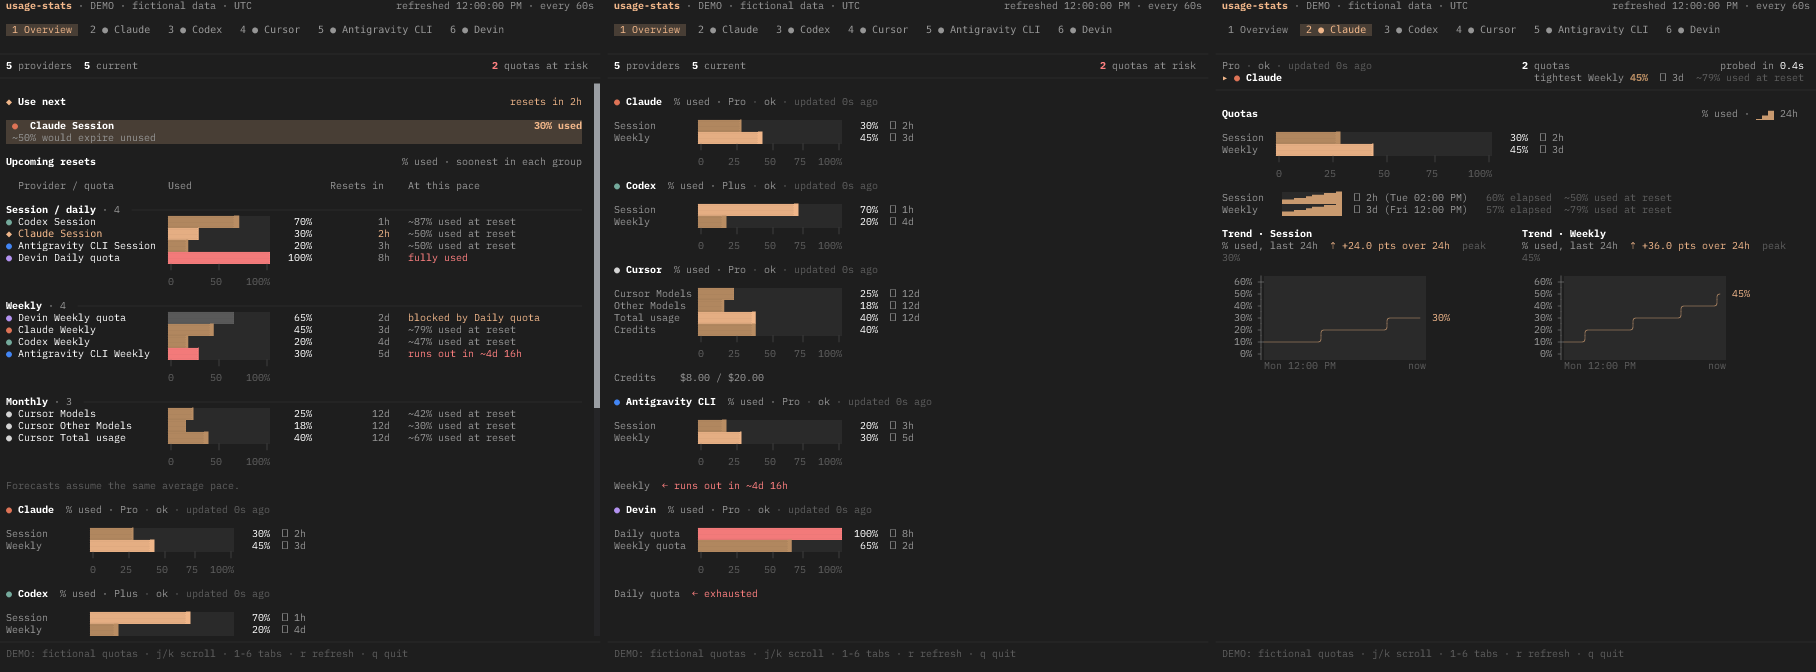
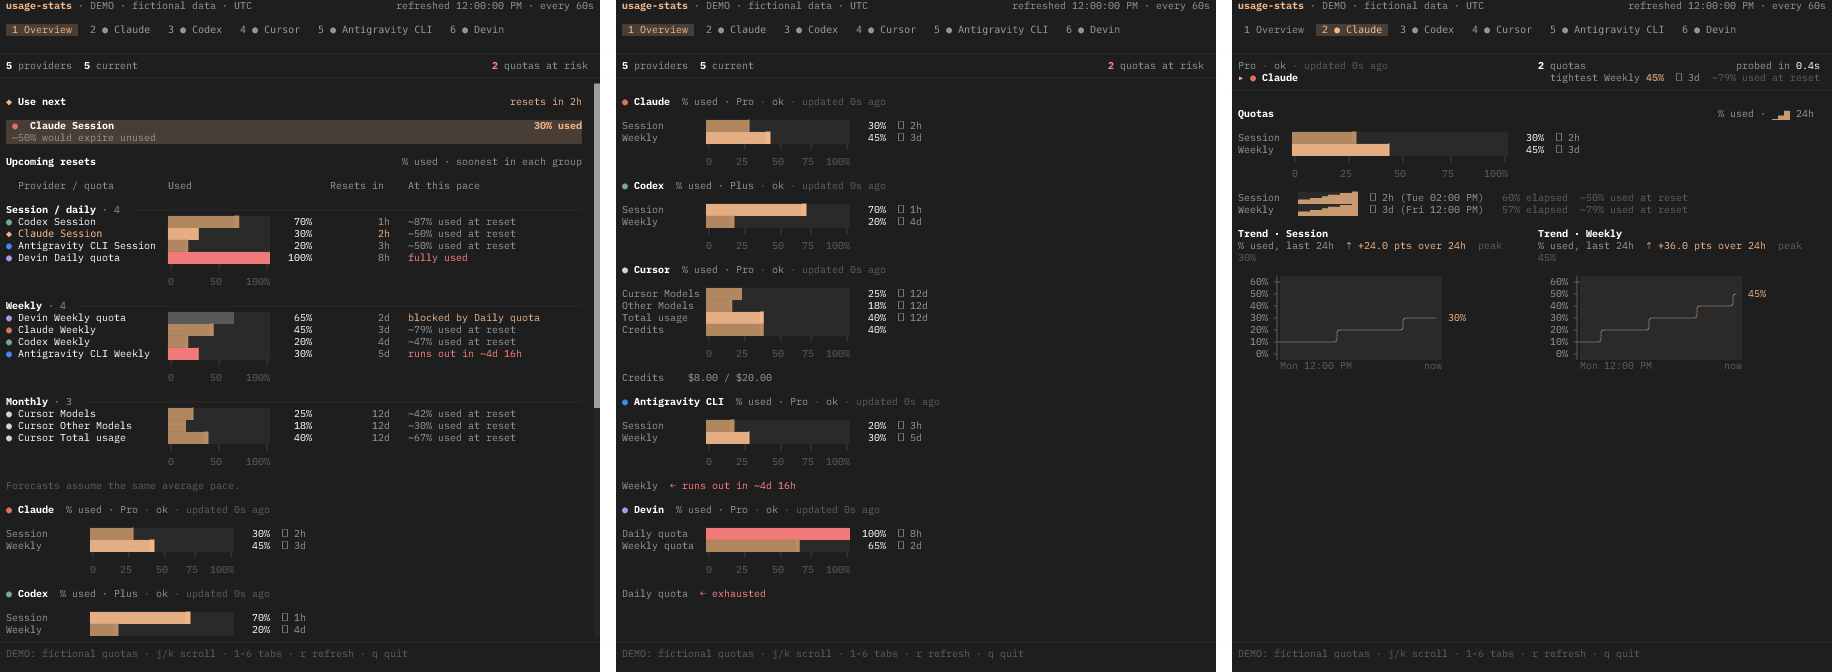
chore(preview): add 16px transparent gap between screens in preview

diff --git a/scripts/build-preview.tsx b/scripts/build-preview.tsx
@@ -46,12 +46,14 @@ const views = [overview, { ...overview, cards: overview.cards.filter((card) => !
   providerView(states[0]!, history, WINDOWS[1]!, options, 43)];
 const cellWidth = 6;
 const cellHeight = 12;
-const gap = 8;
+const gap = 16;
 const escape = (value: string) => value.replaceAll('&', '&amp;').replaceAll('<', '&lt;').replaceAll('>', '&gt;');
 const rgb = (color: { toInts(): number[] }) => `rgb(${color.toInts().slice(0, 3).join(',')})`;
-let svg = `<svg xmlns="http://www.w3.org/2000/svg" width="${3 * width * cellWidth + 2 * gap}" height="${height * cellHeight}"><rect width="100%" height="100%" fill="${theme.bg}"/>`;
+let svg = `<svg xmlns="http://www.w3.org/2000/svg" width="${3 * width * cellWidth + 2 * gap}" height="${height * cellHeight}">`;
 
 for (const [index, view] of views.entries()) {
+  const screenX = index * (width * cellWidth + gap);
+  svg += `<rect x="${screenX}" y="0" width="${width * cellWidth}" height="${height * cellHeight}" fill="${theme.bg}"/>`;
   const scrollRef = createRef<ScrollBoxRenderable | null>();
   const setup = await testRender(
     <box flexDirection="column" width="100%" height="100%" backgroundColor={theme.bg}>
